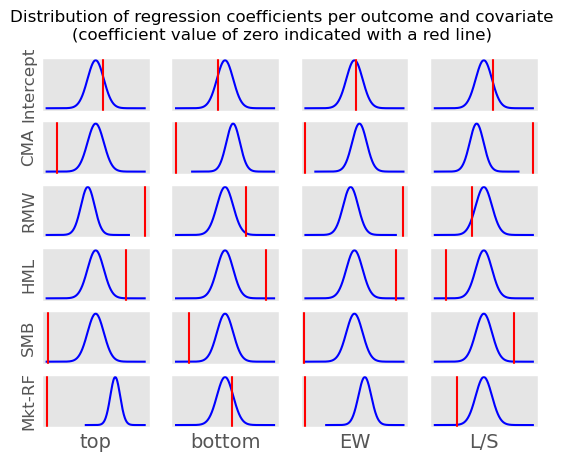
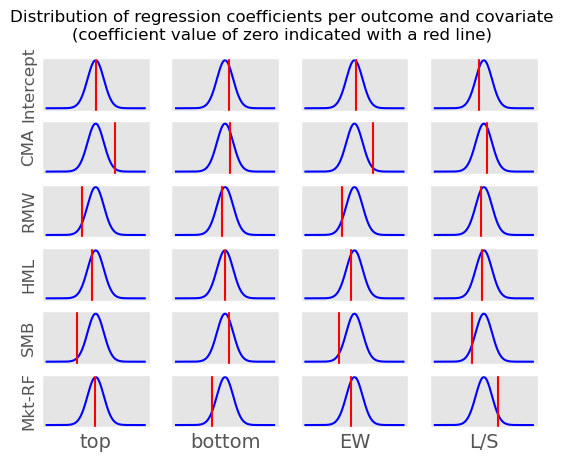
- Update - Performance

diff --git a/Main code/Portfolio sorting/Portfolio_RegressionFunctions.py b/Main code/Portfolio sorting/Portfolio_RegressionFunctions.py
@@ -13,8 +13,8 @@ from Linear_Regression import linear_regression_portfolio
 from sklearn.linear_model import LinearRegression
 
 
-import matplotlib
-matplotlib.use("TkAgg")
+# import matplotlib
+# matplotlib.use("TkAgg")
 # matplotlib.use("Agg")
 
 #///////////////////////////////////////////////////////////////////////////////////////////////////////////////////////
@@ -75,6 +75,9 @@ if __name__ == '__main__':
     return_data = pd.read_csv('..\\..\\Data\\Return_data.csv')
     return_data.rename(columns={'Date': 'Timestamp'}, inplace=True)
     return_data['Timestamp'] = pd.to_datetime(return_data['Timestamp']).dt.date
+    return_data[[col for col in return_data.columns if col != 'Timestamp']] =\
+        return_data[[col for col in return_data.columns if col != 'Timestamp']].shift(-1)
+
 
     df_diff = dvm.clean_diff_timelines(df_RV, df_IV)
     # df_metric = dvm.apply_running_metric(copy.deepcopy(df_diff), func=dvm.metric_norm)
@@ -90,24 +93,27 @@ if __name__ == '__main__':
     df_risk.rename(columns={'date': 'Timestamp', 'Unnamed: 0': 'Timestamp'}, inplace=True)
     df_risk['Timestamp'] = pd.to_datetime(df_risk['Timestamp'].astype(str), format='%Y%m%d')
     df_risk['Timestamp'] = pd.to_datetime(df_risk['Timestamp']).dt.date
+    df_risk[[col for col in df_risk.columns if col != 'Timestamp']] =\
+        df_risk[[col for col in df_risk.columns if col != 'Timestamp']] / 100
 
     common_timestamps = []
     for timestamp in df_port_returns['Timestamp']:
         if timestamp in list(df_risk['Timestamp']):
             common_timestamps.append(timestamp)
 
-    df_risk.drop(columns=['RF'], inplace=True)
-
-
 
 
     output_folder = '..\\..\\Data\\Output\\Portfolio sorting\\5 factors'
 
+    #TODO
     covariate_names = [col for col in df_risk.columns if col!='Timestamp']
+    covariate_names.remove('RF')
+
     outcome_names = ['top', 'bottom', 'EW', 'L/S']
 
     df_covariates = df_risk[df_risk['Timestamp'].isin(common_timestamps)][covariate_names]
     df_outcomes = df_port_returns[df_port_returns['Timestamp'].isin(common_timestamps)][outcome_names]
+
 
     df_beta_ols = pd.DataFrame(data=[], columns=outcome_names, index=['Intercept']+covariate_names)
     df_beta_sd = pd.DataFrame(data=[], columns=outcome_names, index=['Intercept']+covariate_names)
@@ -138,7 +144,7 @@ if __name__ == '__main__':
                                           columns=['Intercept']+covariate_names,
                                           index=['Coefficient', 'Std error', 't-stat', 'R^2', 'SE'])
 
-        # df_outcome_summary.to_csv(output_folder + '\\Summary_' + outcome + '.csv')
+        df_outcome_summary.to_csv(output_folder + '\\Summary_' + outcome.replace('/', '') + '.csv')
 
     df_beta_ols.to_csv(output_folder + '\\Beta_OLS.csv')
     df_beta_sd.to_csv(output_folder + '\\Beta_Sd.csv')
@@ -148,6 +154,27 @@ if __name__ == '__main__':
     df_SE.to_csv(output_folder + '\\SE.csv', index=False)
     df_tstudent_dof.to_csv(output_folder + '\\dof_tstudent.csv', index=False)
     df_tstudent_dof.to_csv(output_folder + '\\alpha_results.csv', index=False)
+
+
+
+    covariate_names2 = copy.deepcopy(covariate_names)
+    covariate_names2.append('RF')
+    df_covariates2 = df_risk[df_risk['Timestamp'].isin(common_timestamps)][covariate_names2]
+    dummy = df_outcomes - pd.DataFrame(data=np.c_[df_covariates2['RF'].values, df_covariates2['RF'].values,
+                                                  np.zeros(len(df_covariates2)), np.zeros(len(df_covariates2))],
+                                       columns=['top', 'bottom', 'L/S', 'EW'])
+    # dummy_2 = np.log(df_outcomes)
+    cum_return = df_outcomes.sum(axis=0)
+    annual_return = df_outcomes.mean(axis=0) * 252
+    return_std = df_outcomes.std(axis=0)
+    sharpe = dummy.mean(axis=0) / return_std
+    alpha = df_alpha.loc['Estimator']
+    annual_alpha = alpha * 252
+
+    df_performance = pd.concat([cum_return, annual_return, return_std, sharpe, alpha, annual_alpha], axis=1)
+    df_performance.columns = ['Cumulative return', 'Annual return', 'STD', 'Sharpe ratio', 'Alpha', 'Annual alpha']
+    df_performance = df_performance.transpose()
+
 
 
     sns.heatmap(df_pval)
@@ -199,48 +226,6 @@ if __name__ == '__main__':
             if j > 0:
                 ax.axes.get_yaxis().set_visible(False)
     plt.savefig(output_folder + '\\beta_dist.png', bbox_inches='tight')
-
-
-    # fig, axs = plt.subplots(df_beta_ols.shape[0]-1, df_beta_ols.shape[1])
-    # plt.suptitle('Regression model of each outcome projected per covariate-outcome plane', fontsize=12)
-    # for j, outcome in enumerate(df_beta_ols.columns):
-    #     X = df_covariates.values
-    #     X = np.c_[np.ones(X.shape[0]), X]
-    #     Y = df_outcomes[outcome].values
-    #     XX = np.vstack((X.min(axis=0), X.max(axis=0)))
-    #     Y_hat = np.dot(df_beta_ols[outcome].values, XX.T)
-    #     beta = df_beta_ols[outcome].values
-    #     X = X[:, 1:]
-    #     XX = XX[:, 1:]
-    #     for i, covariate in enumerate([idx for idx in df_beta_ols.index if idx!='Intercept']):
-    #         ax = axs[i, j]
-    #         ax.scatter(X[:, i], Y, color='r')
-    #         ax.plot(XX[:, i], Y_hat, color='b')
-    #         # ax.plot(XX[:, i], beta[0]+XX[:, i]*beta[i+1], color='b')
-    #         ax.set_xlabel(outcome, fontsize=14)
-    #         ax.set_ylabel(covariate, fontsize=12)
-    #
-    #         ax.tick_params(
-    #             axis='both',
-    #             which='both',
-    #             bottom=False,
-    #             top=False,
-    #             left=False,
-    #             right=False,
-    #             labelbottom=False,
-    #             labeltop=False,
-    #             labelleft=False,
-    #             labelright=False,
-    #         )
-    #
-    #         ax.grid(False)
-    #
-    #         if i < axs.shape[0] - 1:
-    #             ax.axes.get_xaxis().set_visible(False)
-    #         if j > 0:
-    #             ax.axes.get_yaxis().set_visible(False)
-    #
-    # plt.savefig('..\\..\\Data\\Output\\Portfolio sorting\\regression.png', bbox_inches='tight')
 
 
     outcome = 'top'
